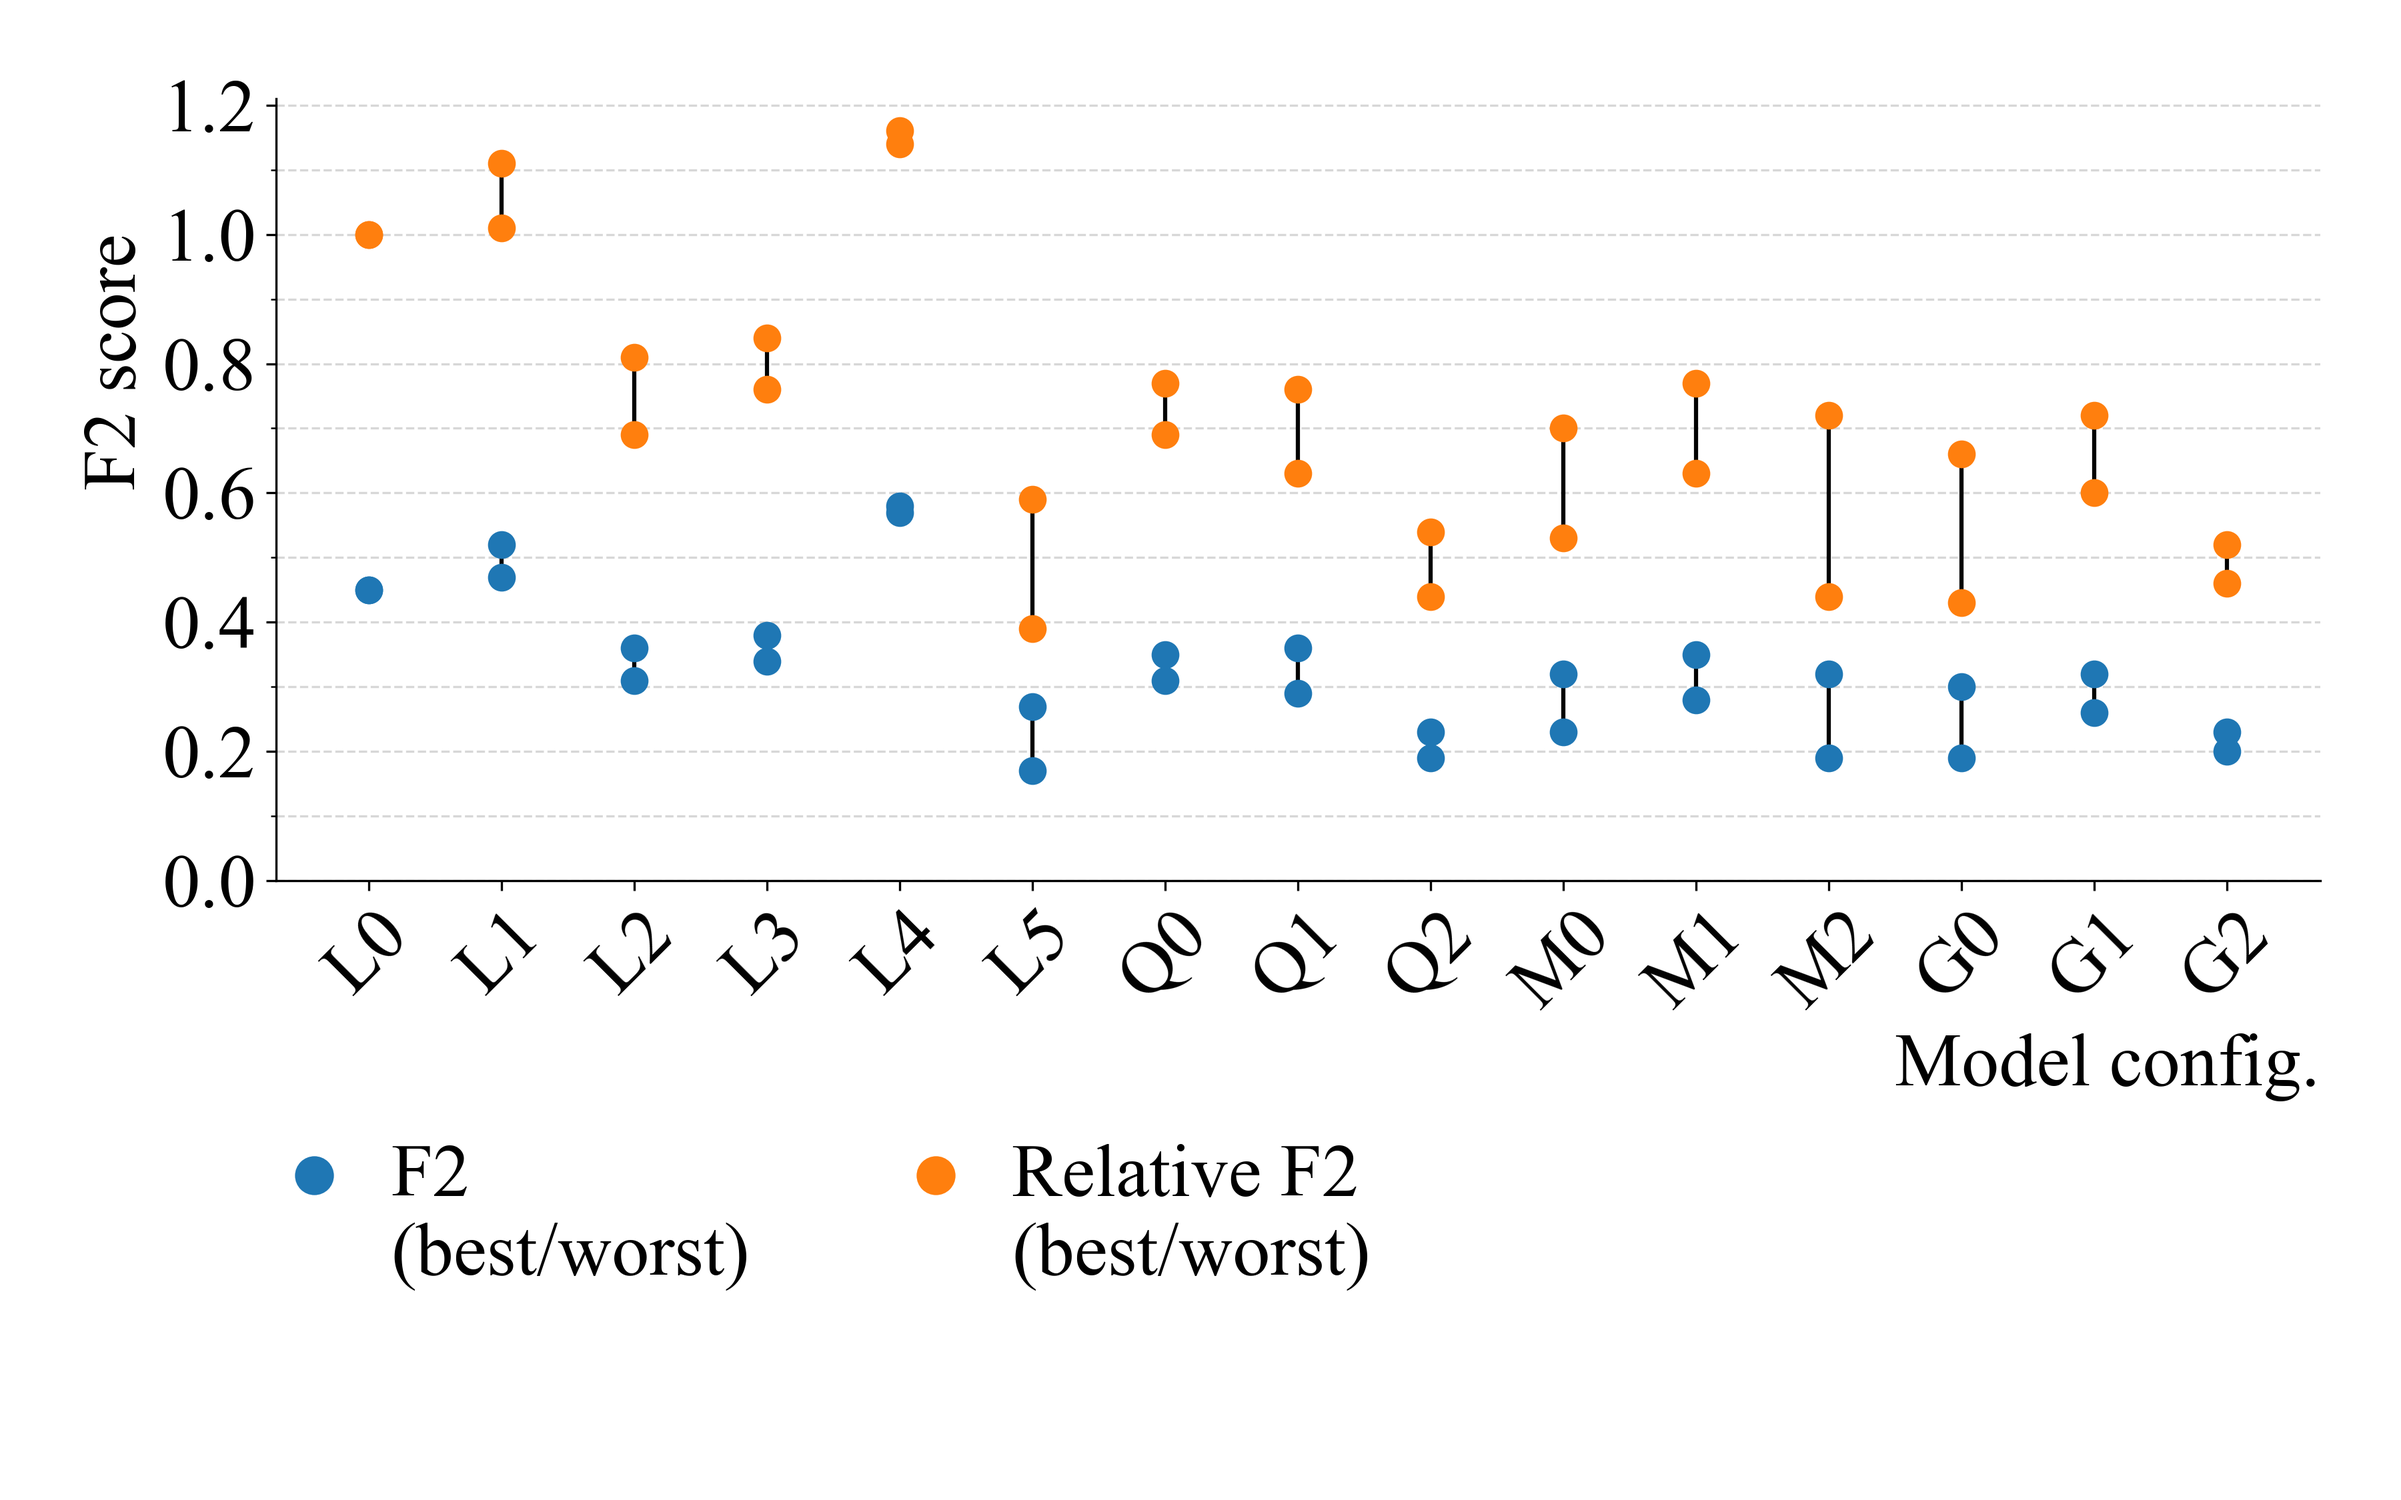
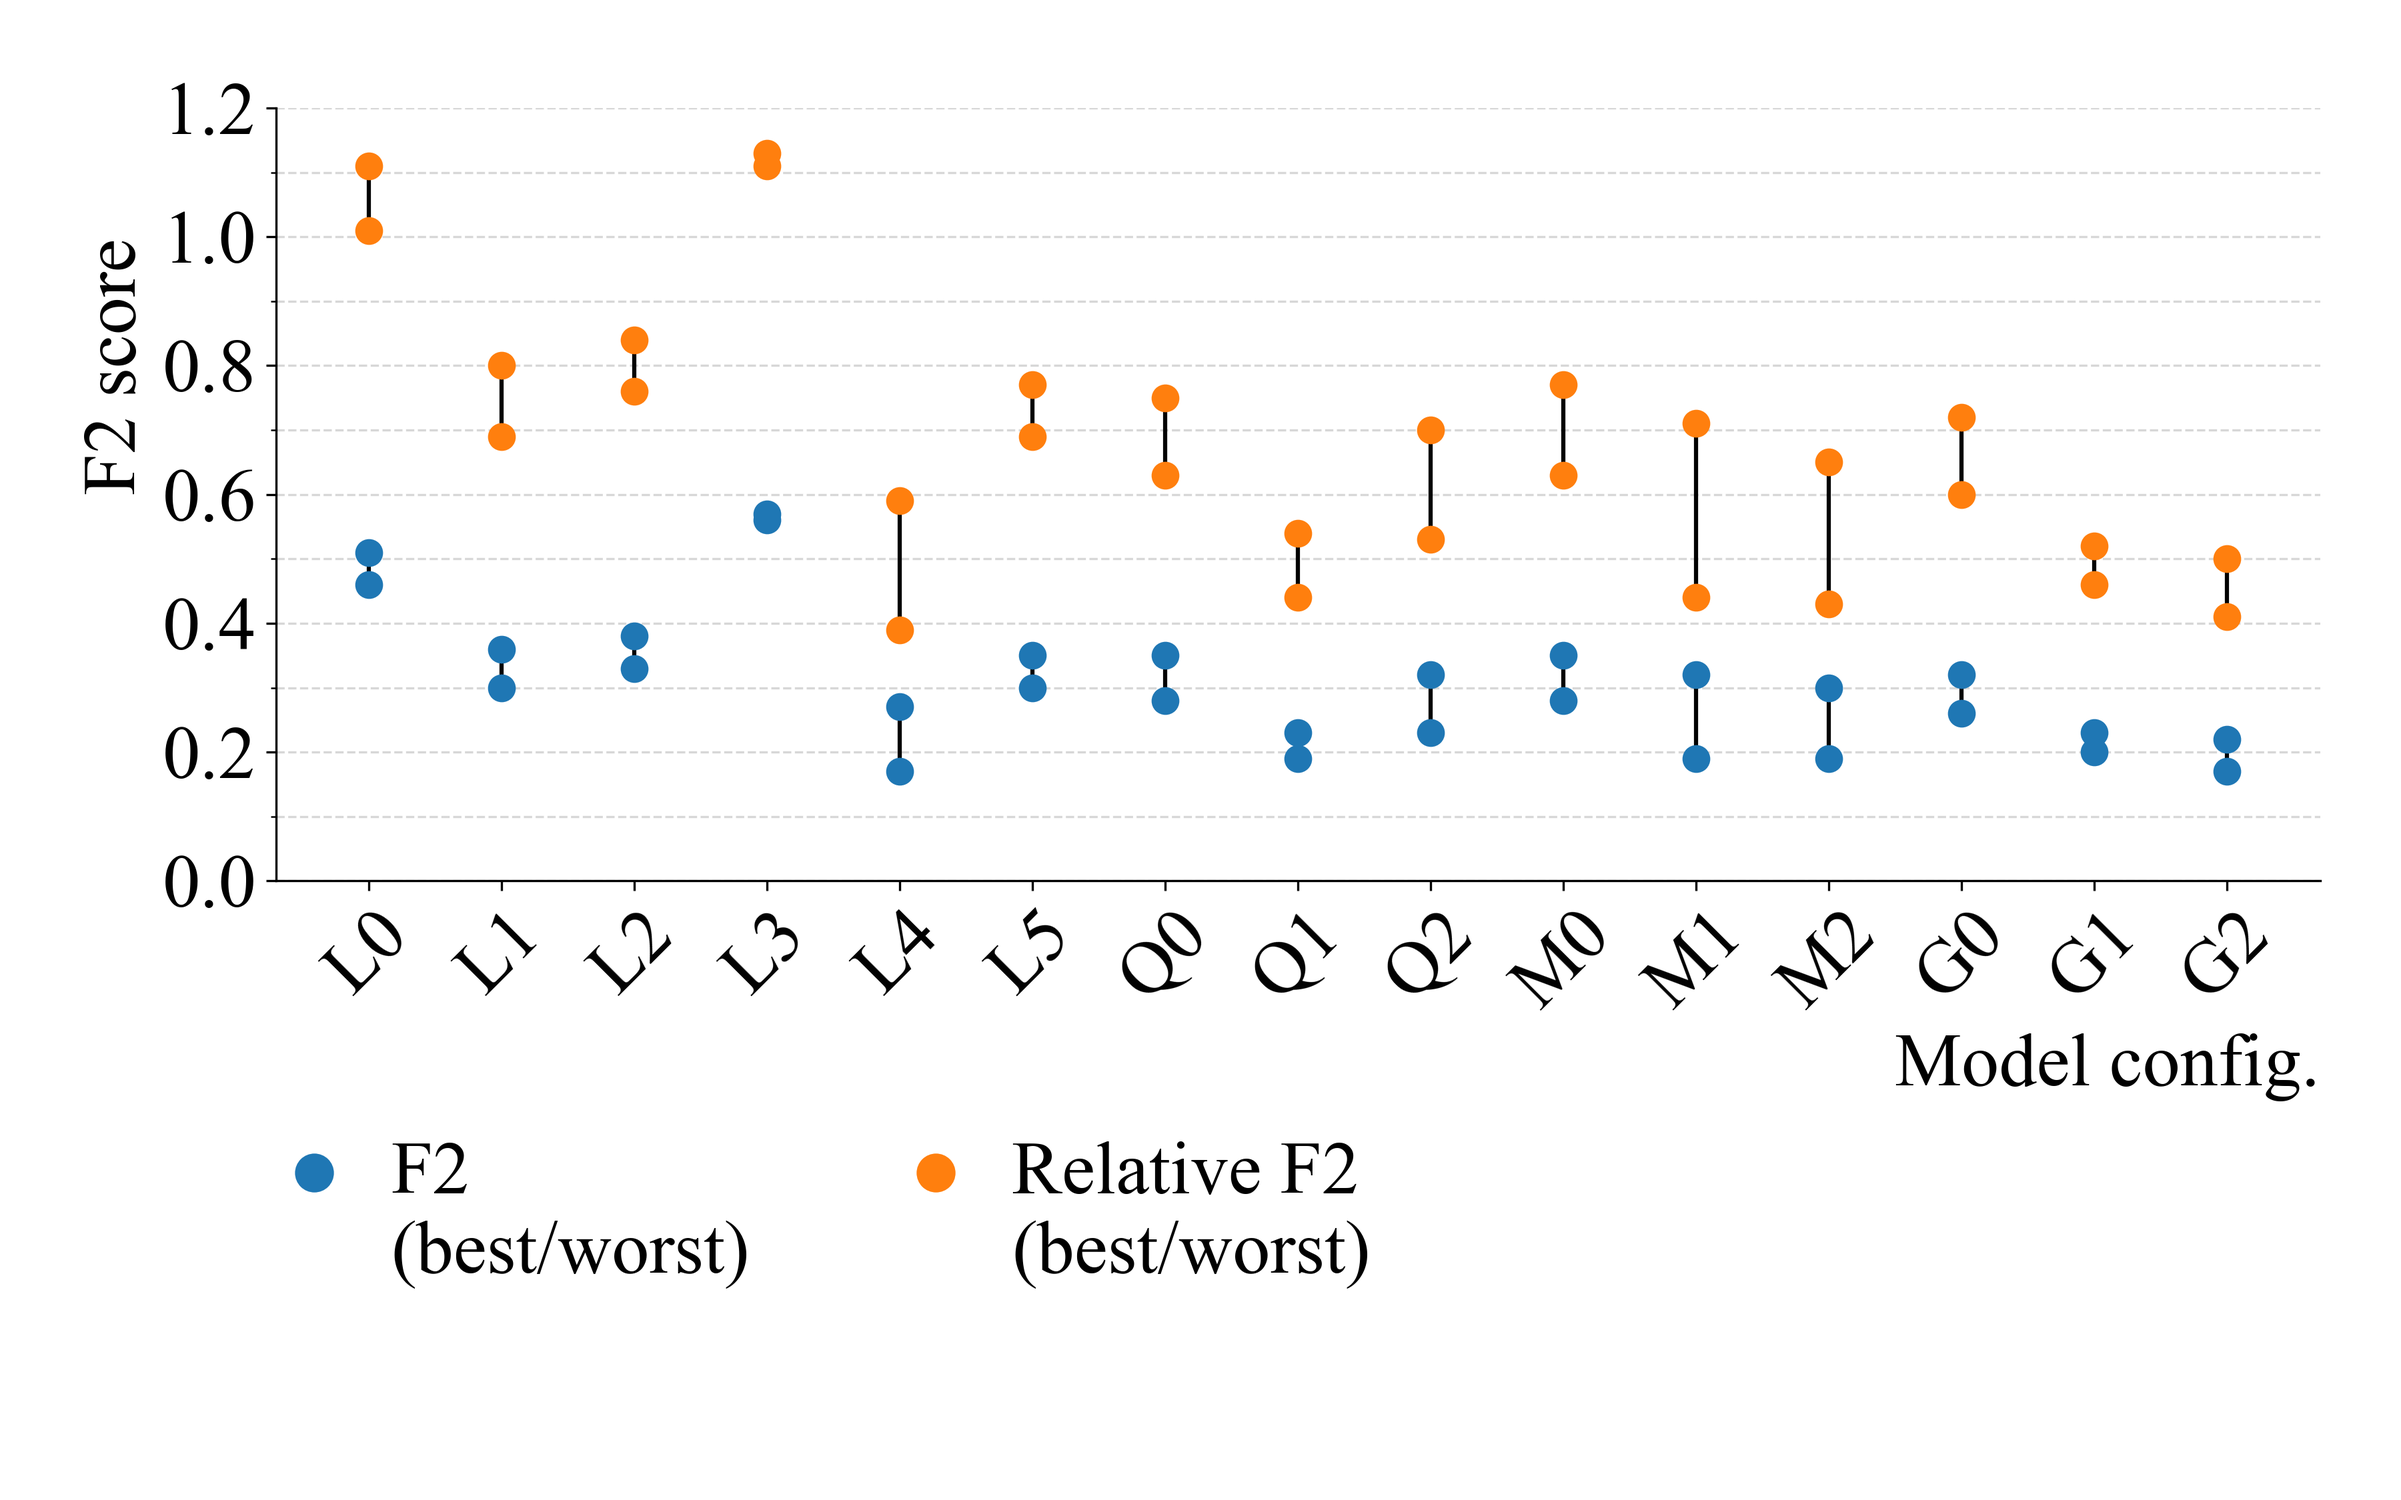
Update graphs

diff --git a/src/graph/results_figure_b.py b/src/graph/results_figure_b.py
@@ -38,17 +38,17 @@ plt.rcParams.update({
 })
 
 # Actual data (could be loaded from file)
-p_center = np.array([0.9304, 0.8162, 0.8792, 0.6820, 0.5439, 0.7829, 0.6270, 0.7413, 0.7163, 0.7829, 0.7970, 0.6401, 0.7970, 0.6469, 0.7681])
-p_low =    np.array([0.8855, 0.7448, 0.8199, 0.5953, 0.4509, 0.7066, 0.5369, 0.6600, 0.6326, 0.7066, 0.7227, 0.5507, 0.7227, 0.5578, 0.6899])
-p_high =   np.array([0.9754, 0.8876, 0.9385, 0.7686, 0.6368, 0.8592, 0.7171, 0.8226, 0.8001, 0.8592, 0.8713, 0.7295, 0.8713, 0.7359, 0.8463])
+p_center = np.array([0.9306, 0.7897, 0.8794, 0.6317, 0.5439, 0.7830, 0.5966, 0.7414, 0.7164, 0.7830, 0.7414, 0.6024, 0.7971, 0.5966, 0.7287])
+p_low =    np.array([0.8860, 0.7148, 0.8204, 0.5424, 0.4516, 0.7073, 0.5057, 0.6607, 0.6332, 0.7073, 0.6607, 0.5117, 0.7233, 0.5057, 0.6467])
+p_high =   np.array([0.9753, 0.8646, 0.9383, 0.7210, 0.6362, 0.8588, 0.6875, 0.8221, 0.7997, 0.8588, 0.8221, 0.6931, 0.8709, 0.6875, 0.8107])
 
-r_best_center = np.array([0.4678, 0.3263, 0.3391, 0.5579, 0.2491, 0.3134, 0.3263, 0.2104, 0.2877, 0.3134, 0.2877, 0.2748, 0.2877, 0.2104, 0.1976])
-r_best_low =    np.array([0.3747, 0.2390, 0.2510, 0.4653, 0.1688, 0.2271, 0.2390, 0.1351, 0.2035, 0.2271, 0.2035, 0.1919, 0.2035, 0.1351, 0.1241])
-r_best_high =   np.array([0.5609, 0.4135, 0.4273, 0.6506, 0.3293, 0.3997, 0.4135, 0.2858, 0.3718, 0.3997, 0.3718, 0.3577, 0.3718, 0.2858, 0.2711])
+r_best_center = np.array([0.4619, 0.3221, 0.3348, 0.5508, 0.2459, 0.3094, 0.3221, 0.2078, 0.2840, 0.3094, 0.2840, 0.2713, 0.2840, 0.2078, 0.1951])
+r_best_low =    np.array([0.3695, 0.2357, 0.2475, 0.4586, 0.1665, 0.2240, 0.2357, 0.1332, 0.2007, 0.2240, 0.2007, 0.1893, 0.2007, 0.1332, 0.1224])
+r_best_high =   np.array([0.5543, 0.4085, 0.4221, 0.6430, 0.3252, 0.3949, 0.4085, 0.2823, 0.3673, 0.3949, 0.3673, 0.3533, 0.3673, 0.2823, 0.2678])
 
-r_worst_center = np.array([0.4164, 0.2748, 0.3005, 0.5450, 0.1590, 0.2748, 0.2619, 0.1718, 0.2104, 0.2491, 0.1718, 0.1718, 0.2362, 0.1847, 0.1590])
-r_worst_low =    np.array([0.3244, 0.1919, 0.2153, 0.4521, 0.0918, 0.1919, 0.1803, 0.1024, 0.1351, 0.1688, 0.1024, 0.1024, 0.1575, 0.1132, 0.0918])
-r_worst_high =   np.array([0.5083, 0.3577, 0.3858, 0.6379, 0.2261, 0.3577, 0.3435, 0.2413, 0.2858, 0.3293, 0.2413, 0.2413, 0.3149, 0.2563, 0.2261])
+r_worst_center = np.array([0.4111, 0.2713, 0.2967, 0.5381, 0.1569, 0.2713, 0.2586, 0.1697, 0.2078, 0.2459, 0.1697, 0.1697, 0.2332, 0.1824, 0.1569])
+r_worst_low =    np.array([0.3199, 0.1893, 0.2123, 0.4457, 0.0906, 0.1893, 0.1779, 0.1010, 0.1332, 0.1665, 0.1010, 0.1010, 0.1553, 0.1116, 0.0906])
+r_worst_high =   np.array([0.5022, 0.3533, 0.3811, 0.6305, 0.2233, 0.3533, 0.3393, 0.2383, 0.2823, 0.3252, 0.2383, 0.2383, 0.3110, 0.2531, 0.2233])
 
 # Merge using extremes
 def merge_extremes(low1, center1, high1, low2, center2, high2):

diff --git a/src/graph/results_figure_a.py b/src/graph/results_figure_a.py
@@ -10,10 +10,10 @@ labels = ['L0', 'L1', 'L2', 'L3', 'L4', 'L5', 'Q0', 'Q1', 'Q2', 'M0', 'M1', 'M2'
 x = np.arange(len(labels))
 
 # F2 and F2-synthetic worst/best values
-f2_worst = np.array([0.45, 0.47, 0.31, 0.34, 0.57, 0.17, 0.31, 0.29, 0.19, 0.23, 0.28, 0.19, 0.19, 0.26, 0.20, 0.18])
-f2_best = np.array([0.45, 0.52, 0.36, 0.38, 0.58, 0.27, 0.35, 0.36, 0.23, 0.32, 0.35, 0.32, 0.30, 0.32, 0.23, 0.22])
-f2s_worst = np.array([1.00, 1.01, 0.69, 0.76, 1.14, 0.39, 0.69, 0.63, 0.44, 0.53, 0.63, 0.44, 0.43, 0.60, 0.46, 0.41])
-f2s_best = np.array([1.00, 1.11, 0.81, 0.84, 1.16, 0.59, 0.77, 0.76, 0.54, 0.70, 0.77, 0.72, 0.66, 0.72, 0.52, 0.51])
+f2_worst = np.array([0.46, 0.30, 0.33, 0.56, 0.17, 0.30, 0.28, 0.19, 0.23, 0.28, 0.19, 0.19, 0.26, 0.20, 0.17])
+f2_best = np.array([0.51, 0.36, 0.38, 0.57, 0.27, 0.35, 0.35, 0.23, 0.32, 0.35, 0.32, 0.30, 0.32, 0.23, 0.22])
+f2s_worst = np.array([1.01, 0.69, 0.76, 1.11, 0.39, 0.69, 0.63, 0.44, 0.53, 0.63, 0.44, 0.43, 0.60, 0.46, 0.41])
+f2s_best = np.array([1.11, 0.80, 0.84, 1.13, 0.59, 0.77, 0.75, 0.54, 0.70, 0.77, 0.71, 0.65, 0.72, 0.52, 0.50])
 
 # Font config
 plt.rcParams.update({
